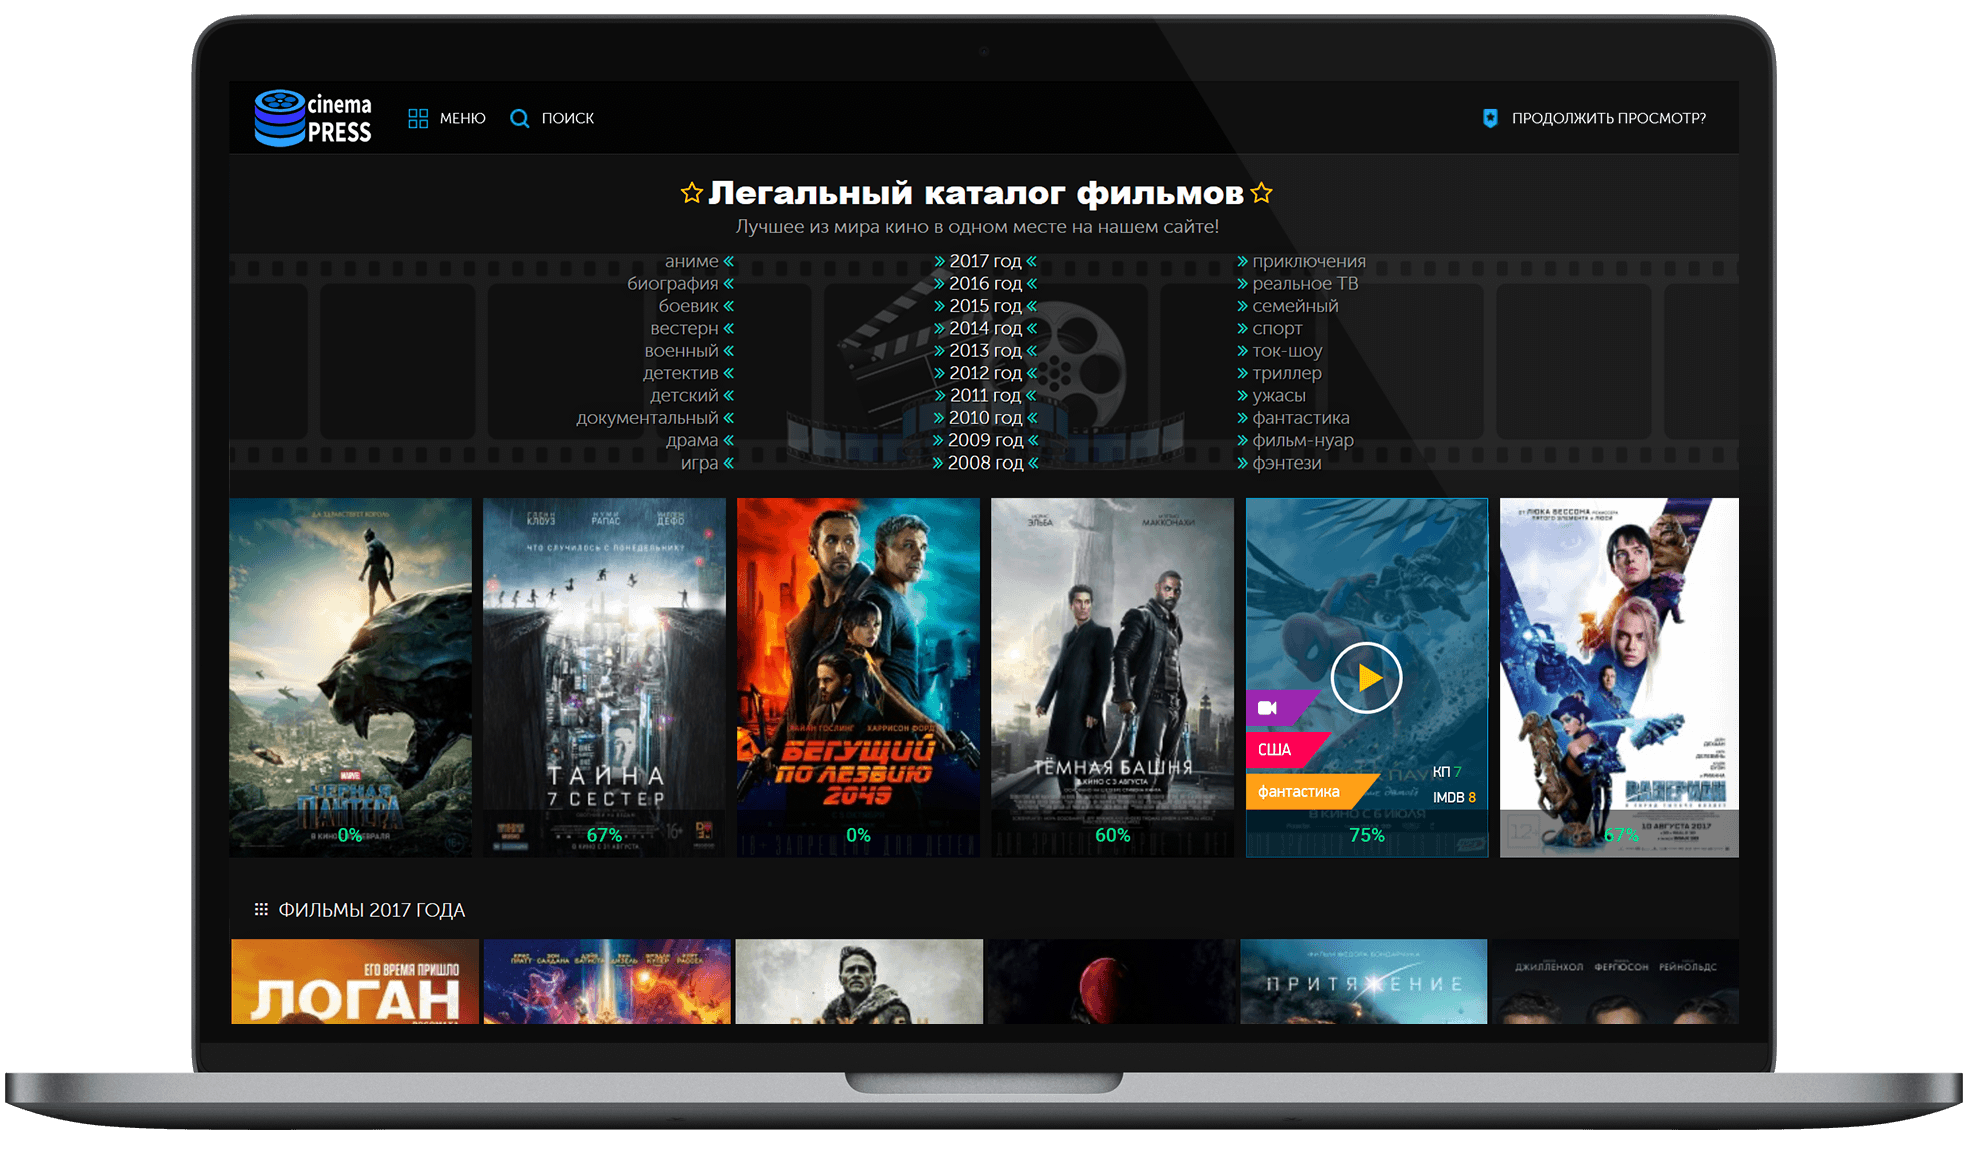
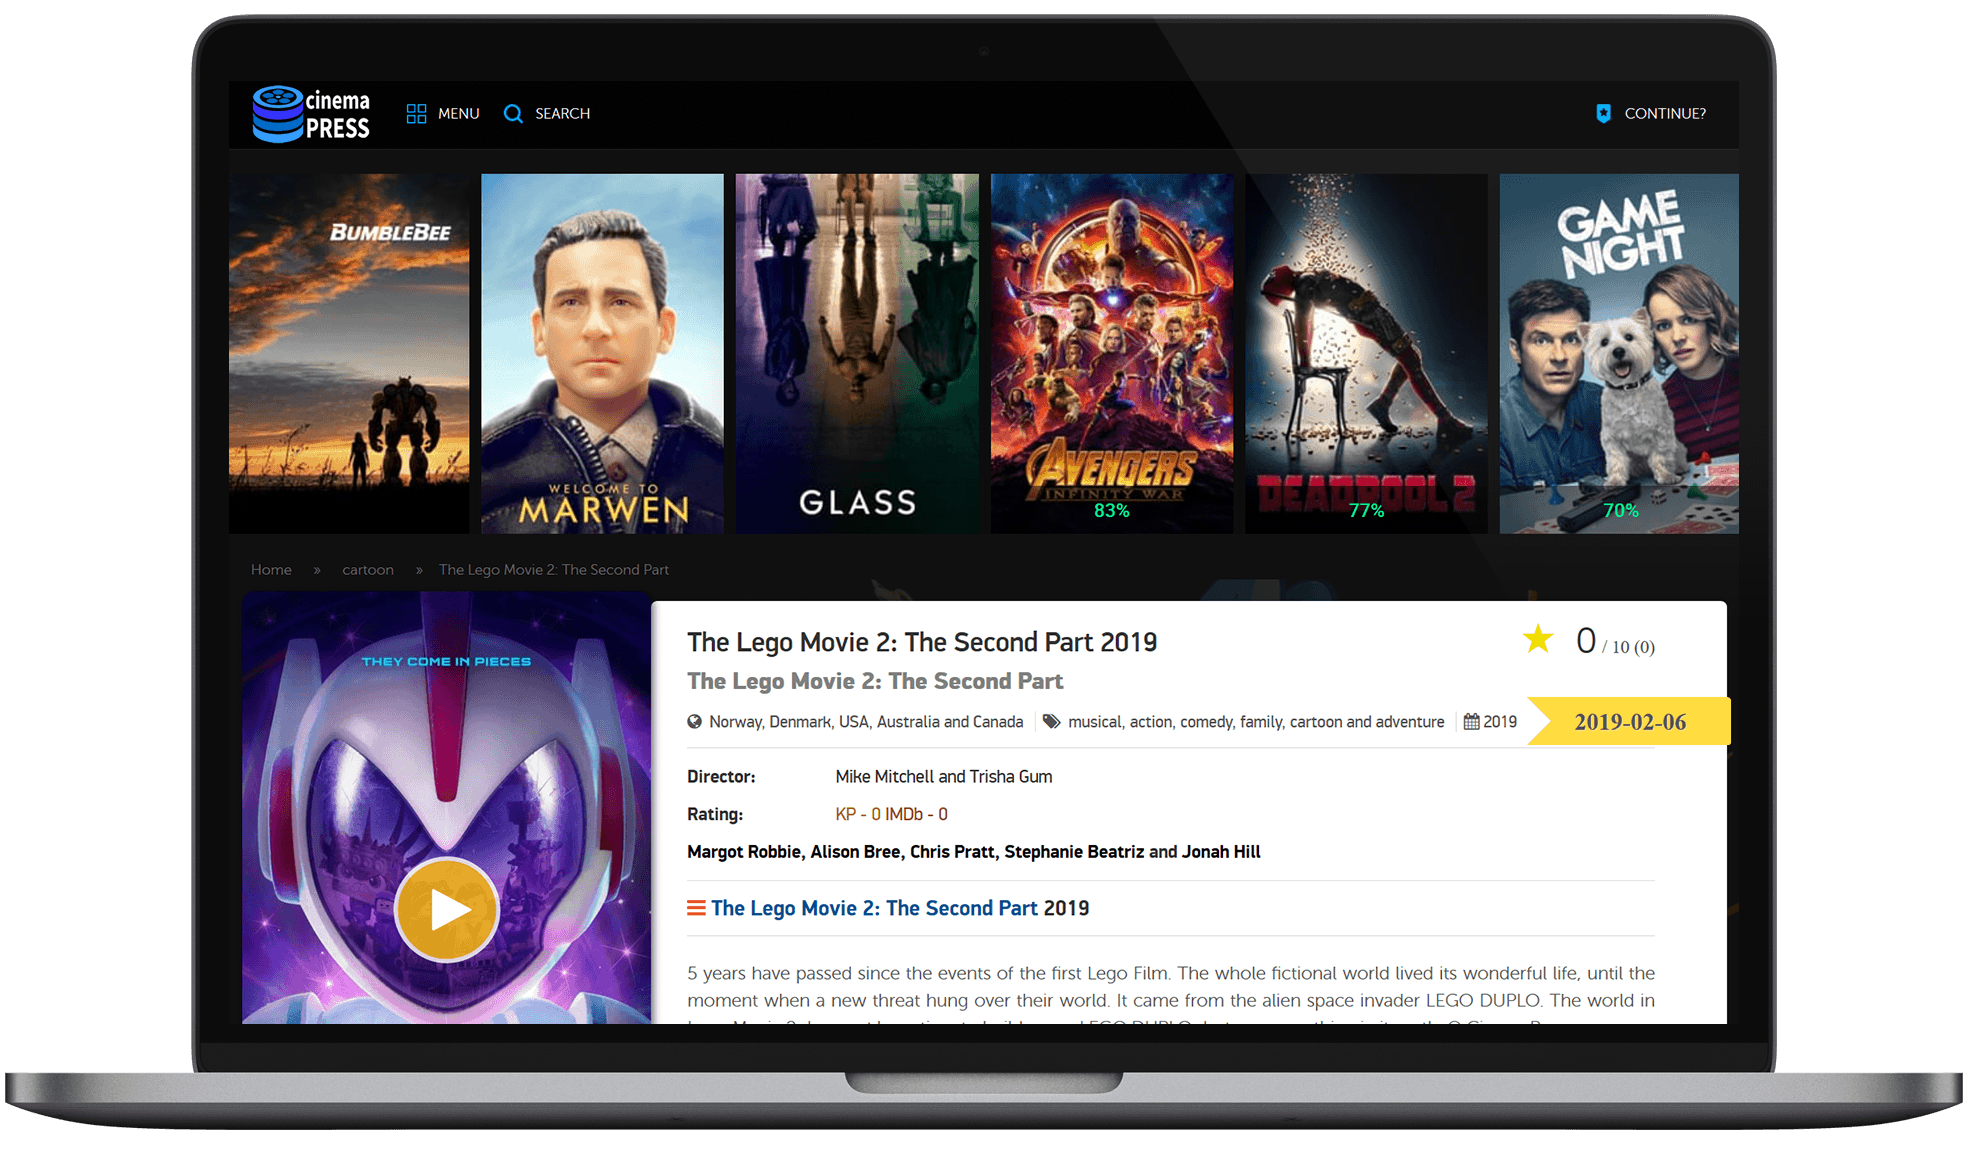
Add translate, new scr

diff --git a/README.md b/README.md
@@ -1,18 +1,29 @@
-# Шаблон «bran»
+# Theme «bran»
 
-![Шаблон «bran» для CinemaPress ACMS](https://raw.githubusercontent.com/CinemaPress/Theme-Bran/master/screenshot.png "Шаблон «bran» для CinemaPress ACMS")
+![Theme «bran» for CinemaPress ACMS](https://raw.githubusercontent.com/CinemaPress/Theme-Bran/master/screenshot.png "Theme «bran» for CinemaPress ACMS")
 
-:art: Шаблон «bran» для CinemaPress ACMS
+:art: Theme «bran» for CinemaPress ACMS
 
 - [Bran.CinemaPress.org](http://Bran.CinemaPress.org/)
 
-## Установка
+## How to install?
+1. Download [GitHub](https://github.com/CinemaPress/Theme-Bran/archive/master.zip) or [GitLab](https://gitlab.com/CinemaPress/Theme-Bran/repository/archive.zip) or [BitBucket](https://bitbucket.org/cinemapress/theme-bran/get/master.zip) or [Coding](https://coding.net/u/CinemaPress/p/Theme-Bran/git/archive/master.zip)
+2. Unpack the archive and rename the folder to **bran**
+3. Folder **bran** send to server in folder **themes**
+4. Change the name of the theme in the admin panel to **bran**
+
+## Installation via terminal
+```
+~# wget cinemapress.org/i -qO i && chmod +x i && ./i 3
+```
+
+## Как установить?
 1. Скачать архив с [GitHub](https://github.com/CinemaPress/Theme-Bran/archive/master.zip) или [GitLab](https://gitlab.com/CinemaPress/Theme-Bran/repository/archive.zip) или [BitBucket](https://bitbucket.org/cinemapress/theme-bran/get/master.zip) или [Coding](https://coding.net/u/CinemaPress/p/Theme-Bran/git/archive/master.zip)
 2. Распаковать архив и переименовать папку в **bran**
 3. Папку **bran** отправить на сервер в папку **themes**
 4. Изменить название темы в админ-панели на **bran**
 
-## Установка через установщик тем CinemaPress ACMS
+## Установка через терминал
 ```
 ~# wget cinemapress.org/i -qO i && chmod +x i && ./i 3
 ```
